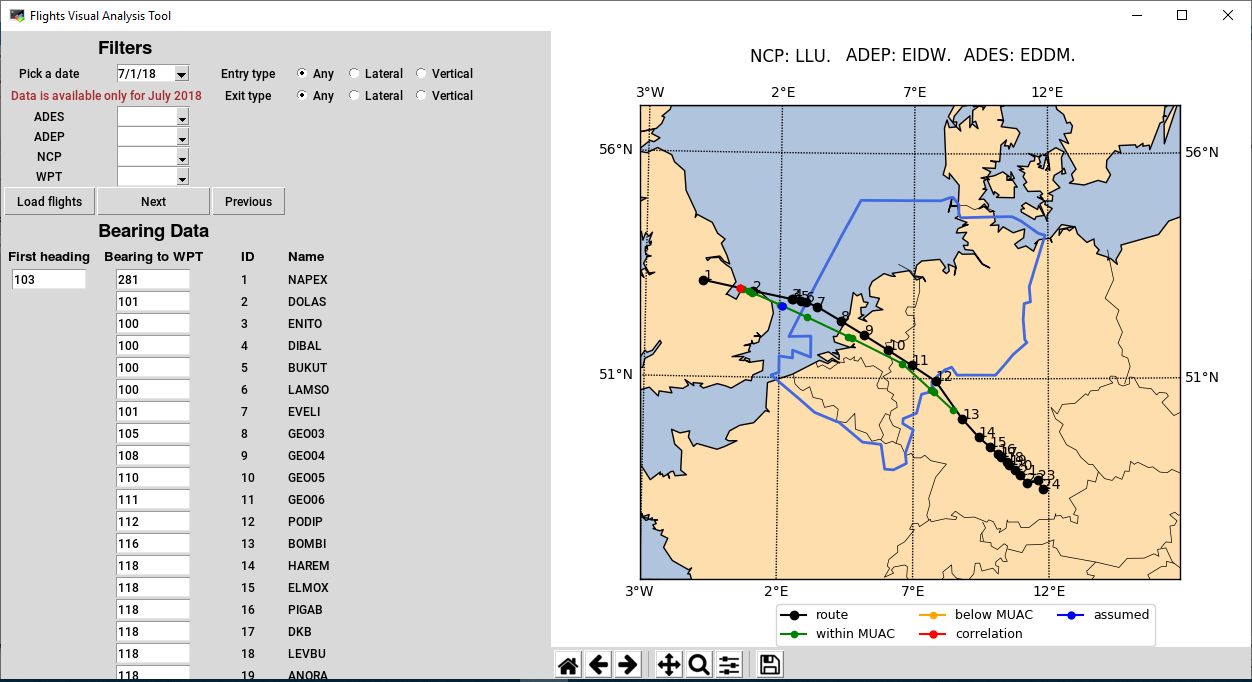
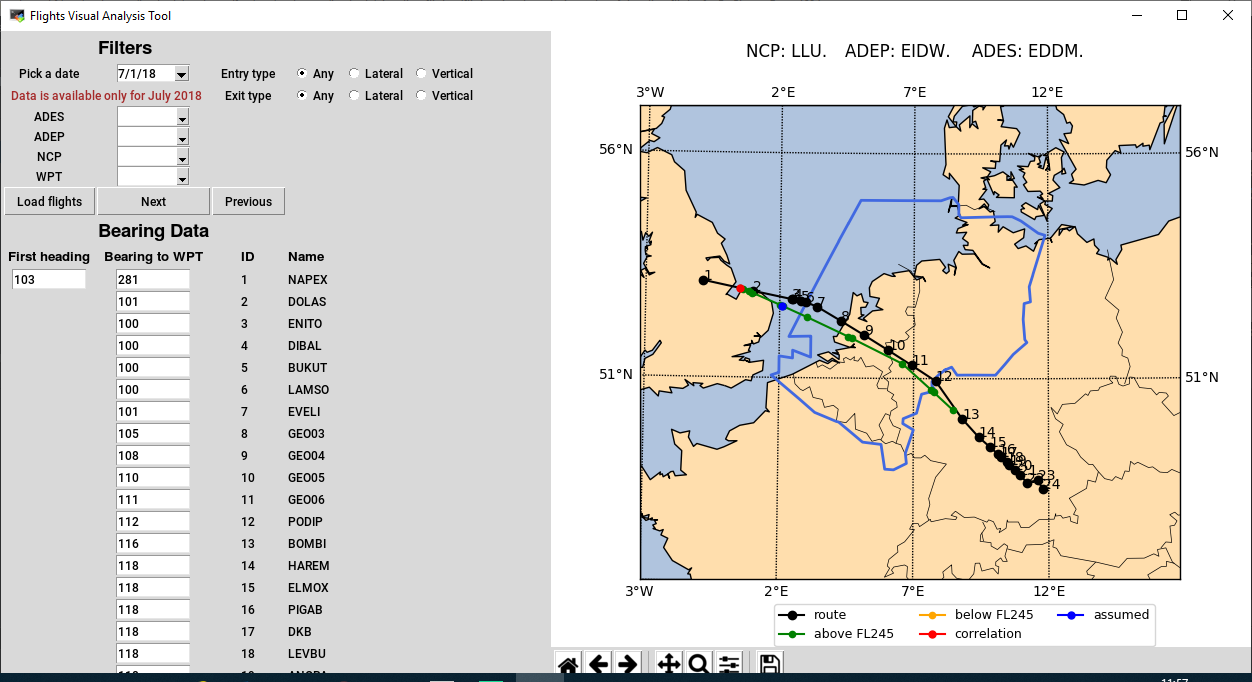
Edit: Figure legend margers

diff --git a/flight_visual_analysis_tool.py b/flight_visual_analysis_tool.py
@@ -781,9 +781,9 @@ class DisplayFlownTrack:
         self.ax.plot(x_route, y_route, color='black', marker='.',
                      markersize=12, label="route")  # route
         self.ax.plot(x_within, y_within, color='green', marker='.',
-                     markersize=9, label="within MUAC")  # flown trajectory within MUAC
+                     markersize=9, label="above FL245")  # flown trajectory within MUAC/above FL245
         self.ax.plot(x_below, y_below, color='orange', marker='.',
-                     markersize=9, label="below MUAC")  # flown trajectory below MUAC
+                     markersize=9, label="below FL245")  # flown trajectory below MUAC/FL245
         self.ax.plot(x_correlation, y_correlation, color='red', marker='.',
                      markersize=10, label="correlation")  # track correlation point
         self.ax.plot(x_under_control[0], y_under_control[0], color='blue', marker='.',
